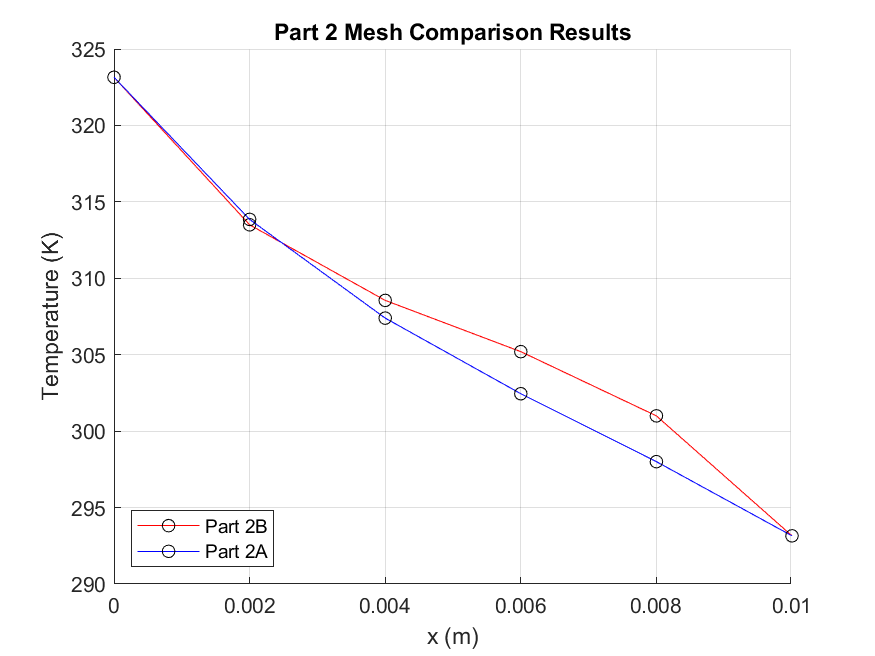
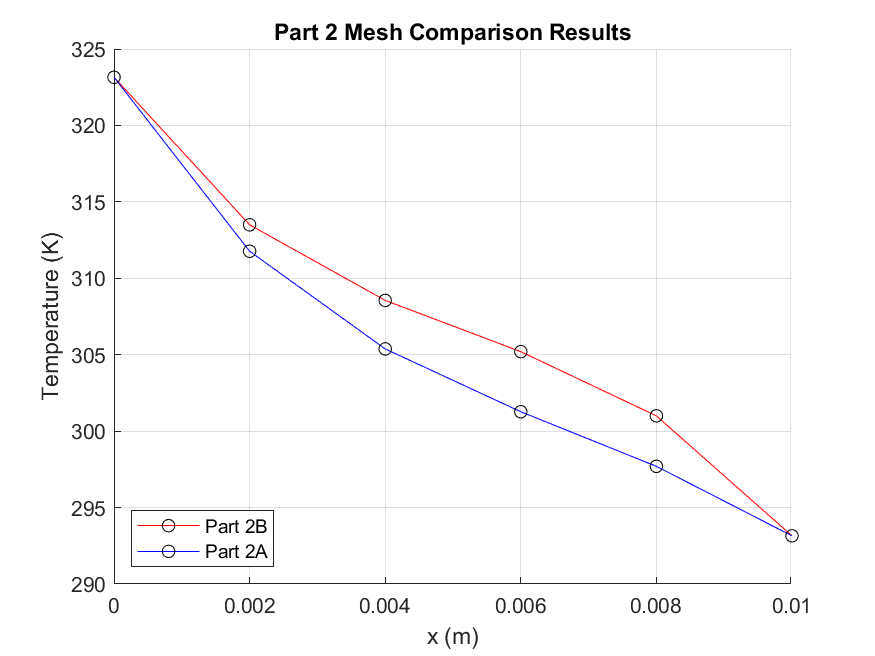
Use matching Q values for part2a and b

diff --git a/part2.m b/part2.m
@@ -2,7 +2,7 @@
 p=genpath('lib');addpath(p);p=genpath('status');addpath(p);p=genpath('src');addpath(p);
 
 [~,part2bProblem] = part2b(1,300,5);
-[~,part2aProblem] = part2a(0.5,300,5);
+[~,part2aProblem] = part2a(1,300,5);
 %Set Plot Options
 PlotOpts=[]; %Clear previous opts.
 PlotOpts.title='Part 2 Mesh Comparison Results';
